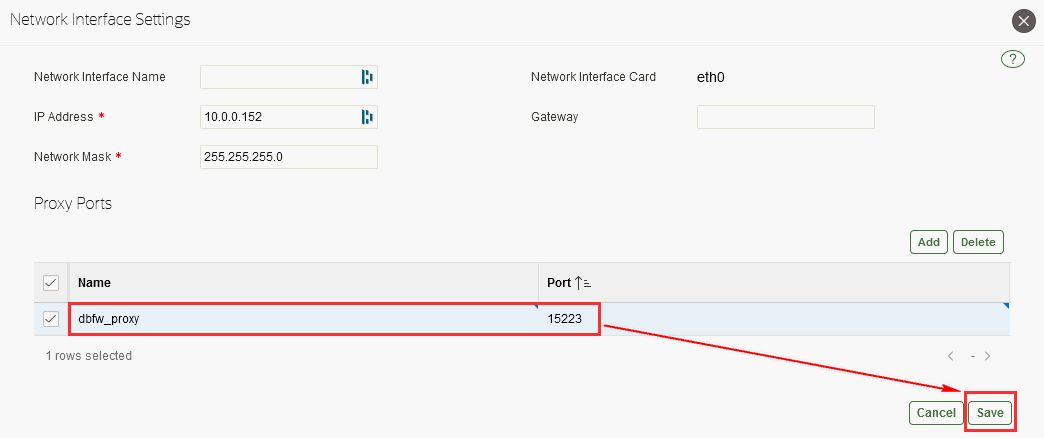
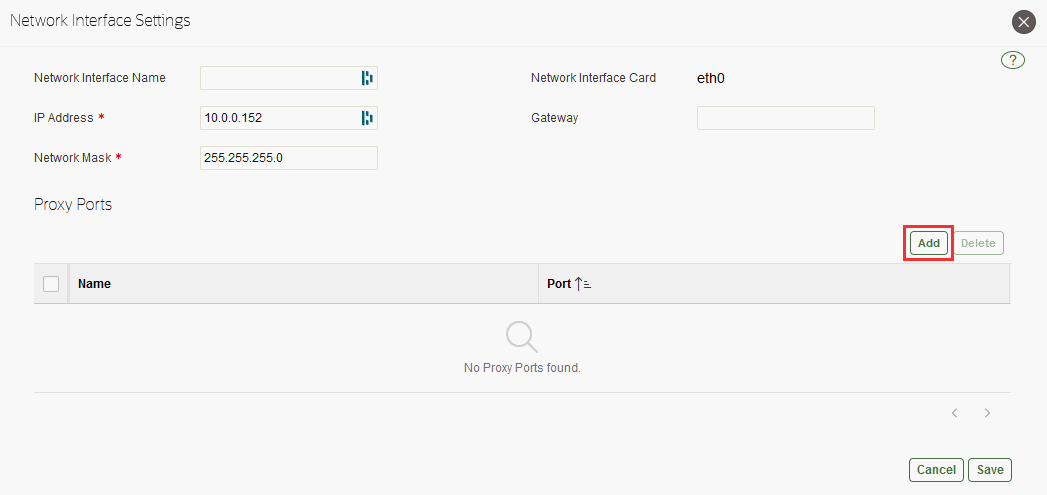
dbseclab-v5

diff --git a/database/advanced/avdf/avdf.md b/database/advanced/avdf/avdf.md
@@ -702,33 +702,33 @@ In this lab you will modify the Database Firewall connection for the pluggable d
 
     ![AVDF](./images/avdf-102.png "AVDF")
 
-5. Click on **eth0**
+5. Check that the **Proxy Port** for **eth0** is set to *`dbfw_proxy(15223)`*
 
     ![AVDF](./images/avdf-103.png "AVDF")
-
-6. Add a **Proxy Port**
+    
+    **Note**: FYI, follow these instructions to create a Proxy Port:
+    - Click on **eth0**
+    
+        ![AVDF](./images/avdf-104a.png "AVDF")
 
     - Click [**Add**]
 
-        ![AVDF](./images/avdf-104.png "AVDF")
-
-    - Name it *`dbfw_proxy`* for the port *`15223`*, then click [**Save**]
-
         ![AVDF](./images/avdf-104b.png "AVDF")
 
-7. Your Database Firewall Network Settings should now look like this:
+    - Name it (here *`dbfw_proxy`*) for the port *`15223`*, then click [**Save**]
 
-    ![AVDF](./images/avdf-105.png "AVDF")
+        ![AVDF](./images/avdf-104c.png "AVDF")
 
-8. Click [**Close**]
 
-9. Now, enable DB Firewall Monitoring for `pdb1` using the Proxy Port we just created
+6. Click [**Close**]
+
+7. Now, enable DB Firewall Monitoring for `pdb1` using the Proxy Port we just created
 
     - Click the **Targets** tab and click **pdb1**
 
     - In the **Database Firewall Monitoring** section of this page, click [**Add**]
 
-        ![AVDF](./images/avdf-105b.png "AVDF")
+        ![AVDF](./images/avdf-105.png "AVDF")
 
     - Fill out the following details
 
@@ -758,7 +758,7 @@ In this lab you will modify the Database Firewall connection for the pluggable d
 
         ![AVDF](./images/avdf-108.png "AVDF")
 
-10. Now, verify connectivity between the database and the DB Firewall
+8. Now, verify connectivity between the database and the DB Firewall
 
     - Go back to your Terminal session and go to the DBF directoy
 
